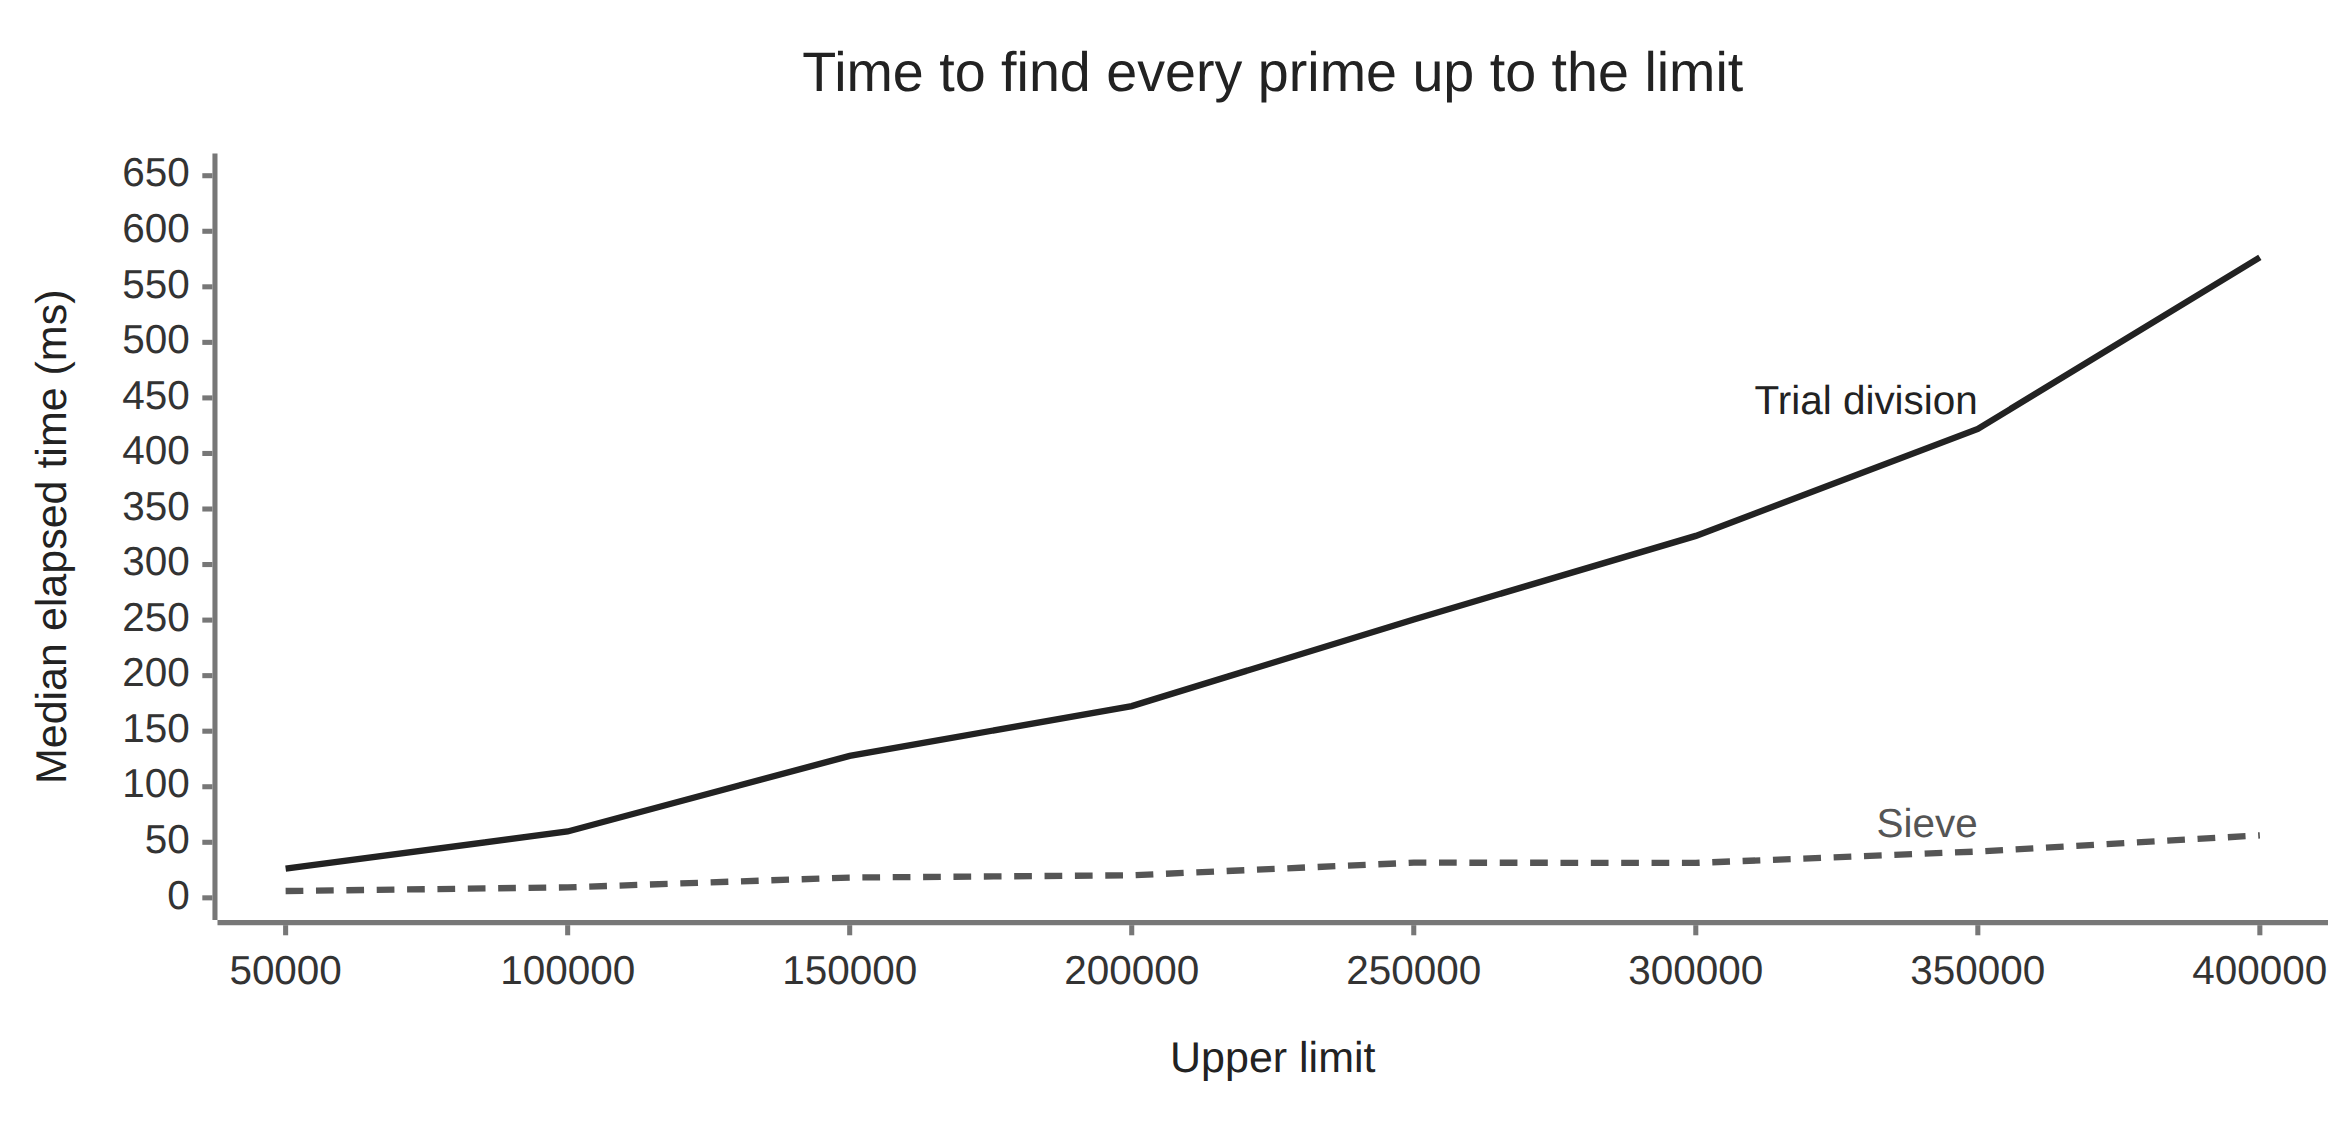
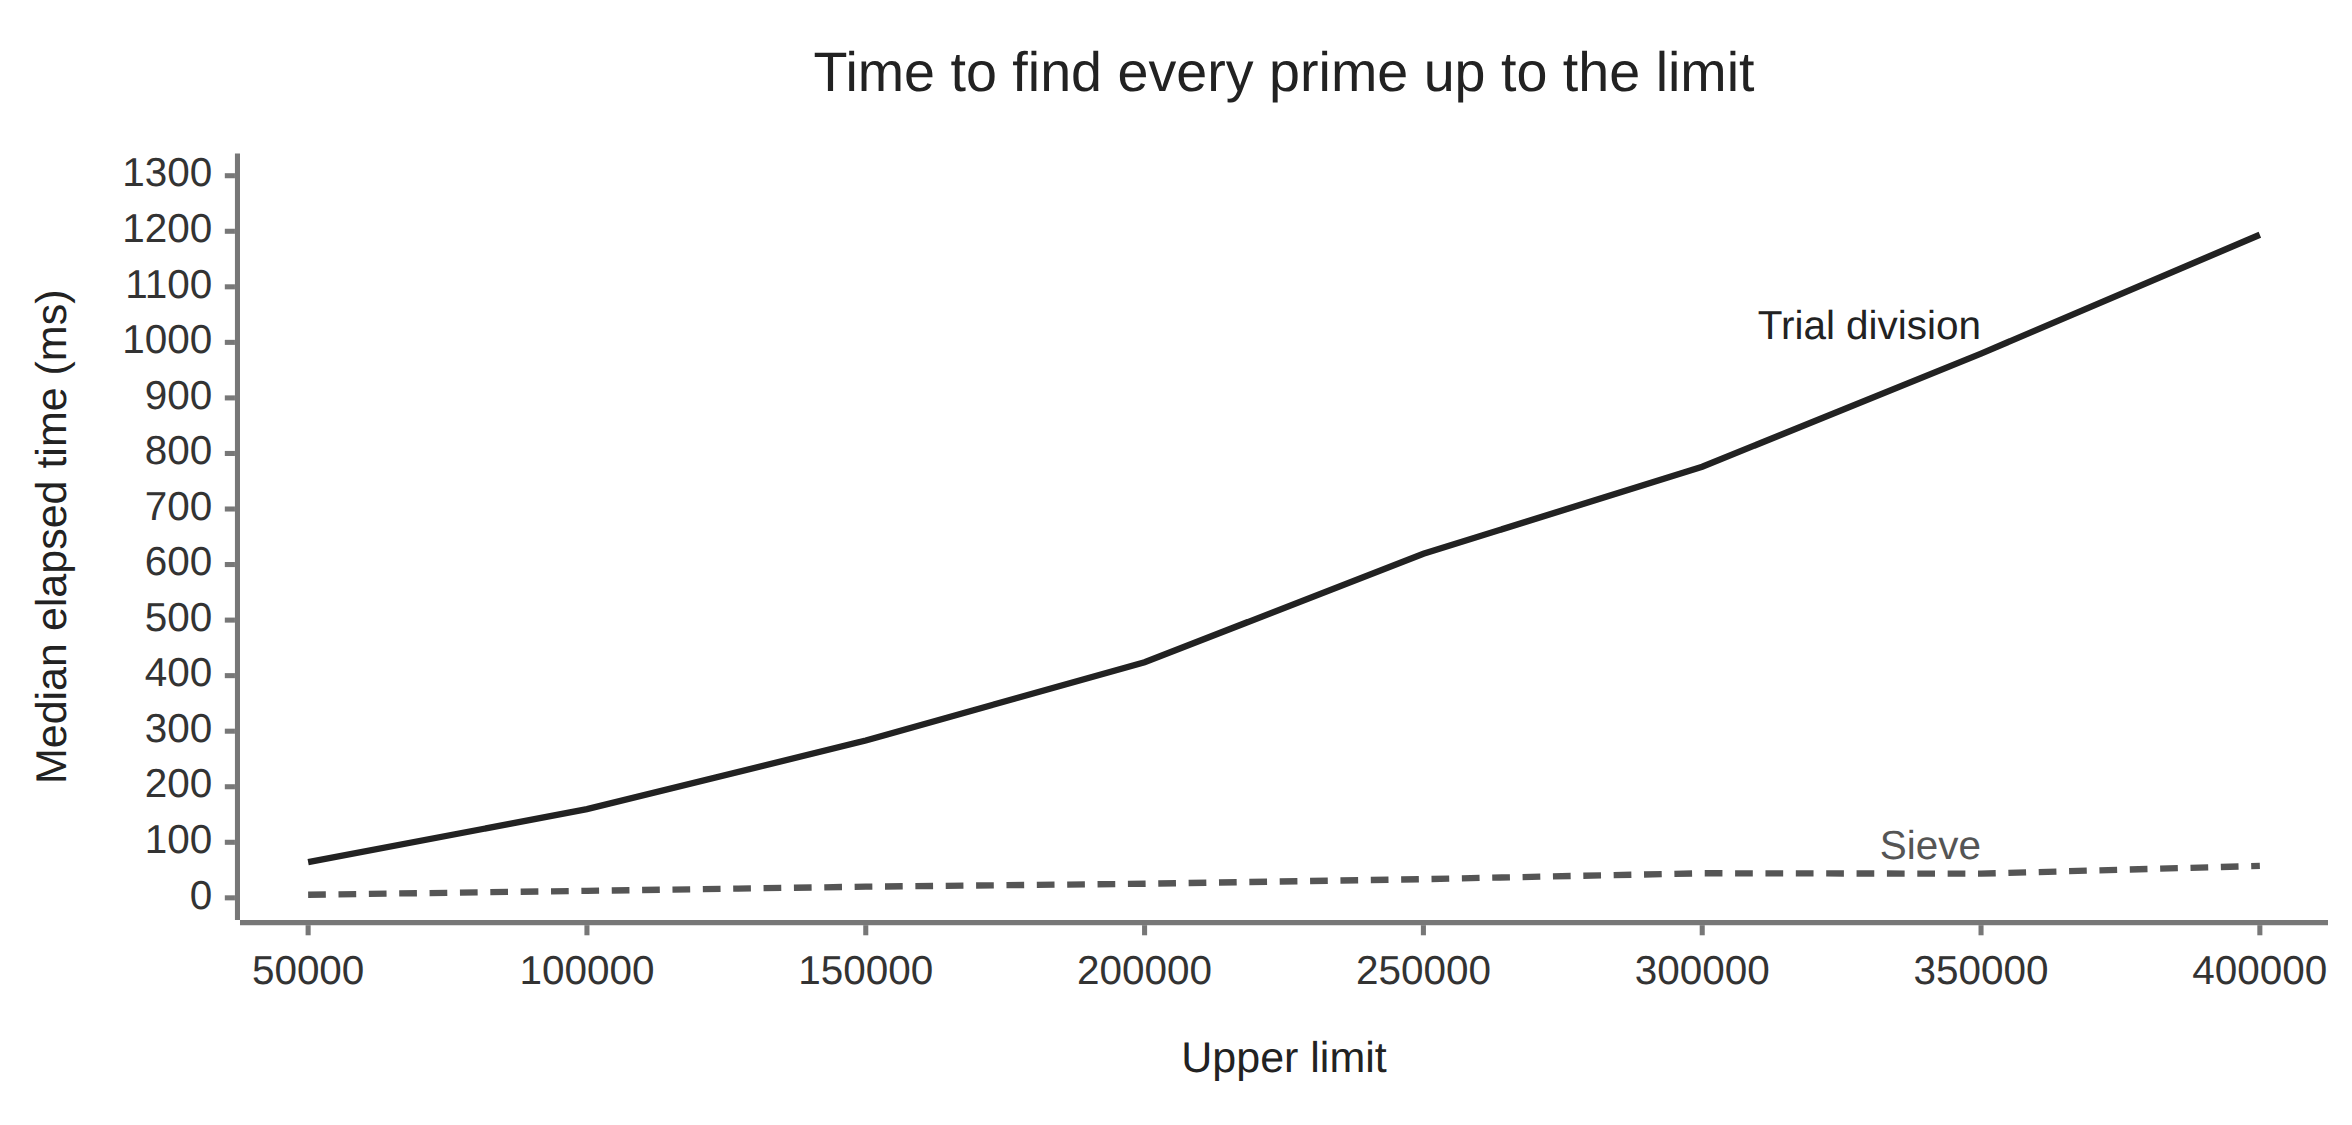
docs(examples): add sieve benchmark script and refresh runtime chart

diff --git a/examples/sieve/benchmark.py b/examples/sieve/benchmark.py
@@ -1,0 +1,70 @@
+# Copyright (C) 2026 Gil Hauer
+# SPDX-License-Identifier: GPL-3.0-only
+# See LICENSE in the project root for the full license text.
+"""Time the generated sieve against trial division for the runtime chart.
+
+Run from the repository root after generating the example:
+
+    uv run unravel examples/sieve/sieve.md -o examples/sieve/generated
+    uv run python examples/sieve/benchmark.py
+
+The script prints the median of seven runs at each limit, followed by the two
+``line`` rows used in ``diagrams/runtime-comparison.mmd``.
+"""
+
+import platform
+import statistics
+import sys
+import time
+from math import isqrt
+from pathlib import Path
+
+sys.dont_write_bytecode = True  # Keep generated/ limited to unravel's output.
+sys.path.insert(0,str(Path(__file__).resolve().parent / "generated"))
+from sieve import sieve  # noqa: E402
+
+LIMITS = range(50_000, 400_001, 50_000)
+RUNS = 7
+
+
+def passes_trial_division(candidate: int) -> bool:
+    """Return whether no divisor from 2 through isqrt(candidate) divides it."""
+    for divisor in range(2, isqrt(candidate) + 1):
+        if candidate % divisor == 0:
+            return False
+    return True
+
+
+def trial_division(n: int) -> list[int]:
+    """Return the primes through n, testing each candidate independently."""
+    return [k for k in range(2, n + 1) if passes_trial_division(k)]
+
+
+def median_ms(function, n: int) -> float:
+    """Return the median elapsed time of RUNS calls, in milliseconds."""
+    times = []
+    for _ in range(RUNS):
+        start = time.perf_counter()
+        function(n)
+        times.append((time.perf_counter() - start) * 1000)
+    return round(statistics.median(times), 3)
+
+
+def main() -> None:
+    for n in (30, 1_000, 10_000):
+        assert sieve(n) == trial_division(n), n
+
+    print(f"Python {platform.python_version()} on {platform.machine()}, "
+          f"median of {RUNS} runs")
+    print(f"{'limit':>8}  {'trial (ms)':>11}  {'sieve (ms)':>11}")
+    trial, fast = [], []
+    for n in LIMITS:
+        trial.append(median_ms(trial_division, n))
+        fast.append(median_ms(sieve, n))
+        print(f"{n:>8}  {trial[-1]:>11.3f}  {fast[-1]:>11.3f}")
+    print("line", trial)
+    print("line", fast)
+
+
+if __name__ == "__main__":
+    main()
